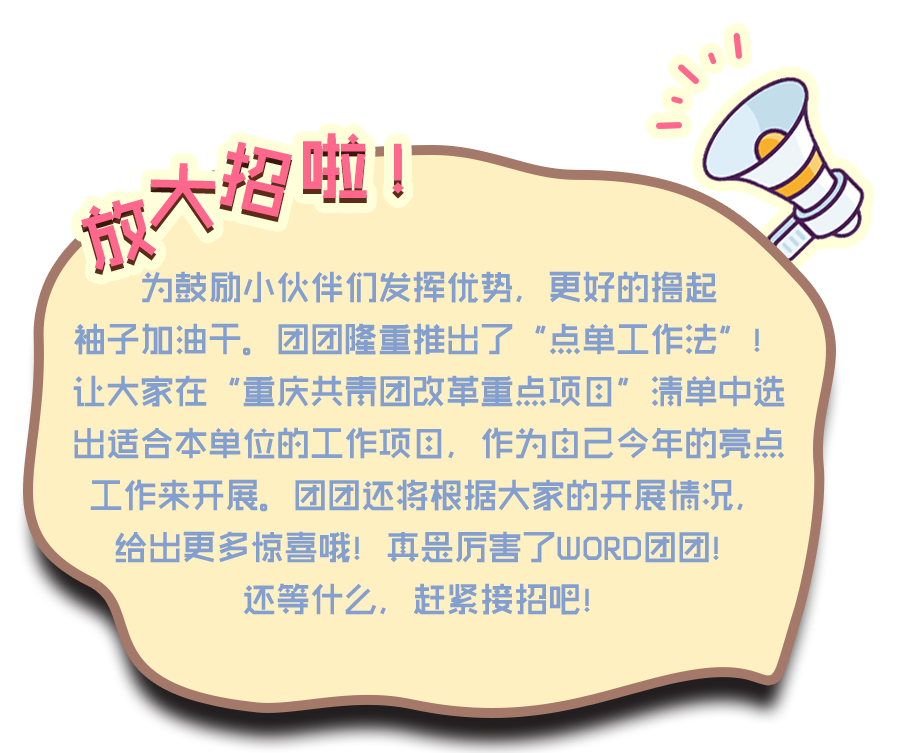
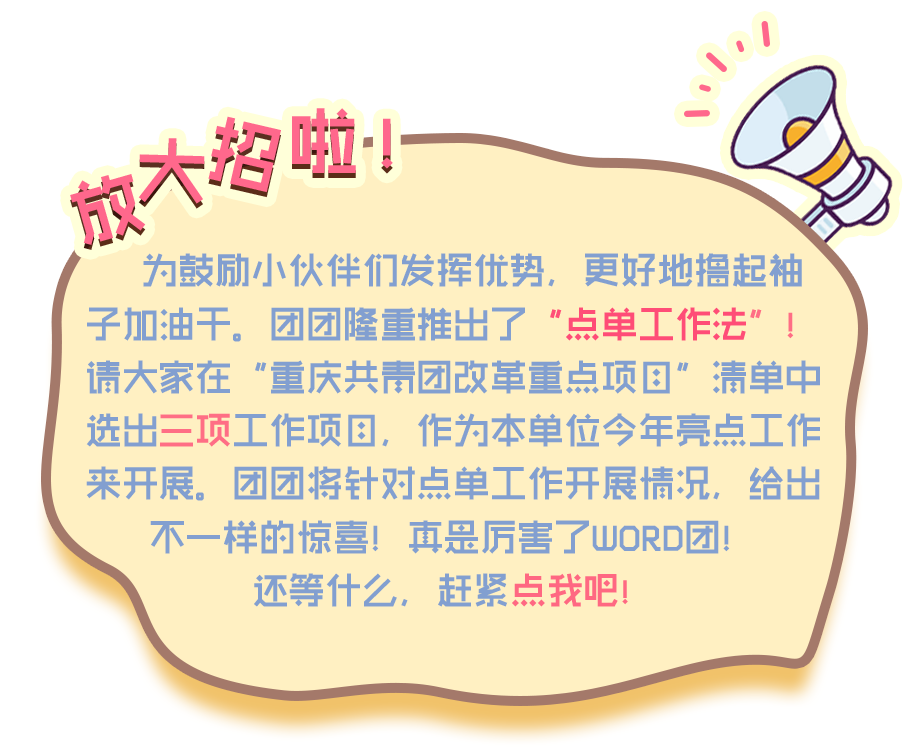
唉

diff --git a/Application/Home/View/Index/clickPage.html b/Application/Home/View/Index/clickPage.html
@@ -11,8 +11,8 @@
         <div id="mustBox">
             <img src="__PUBLIC__/img/mustKnow.png">
             <div id="mustDet">
-                <p>点单了，点单了！各单位的小伙伴，快来勾选出适合本单位的工作项目吧！当然，亲们可不要任性乱点单啊～克制住自己的双手，最多只能点三项哦！勾选出来的项目将作为自己今年的亮点工作，想想真有点小激动呢！</p>
-                <p>勾选完毕后，请下滑该页面到最底部点击“完成”按钮，并在下一页面完善信息后确认提交，即可完成点单。亲，准备好了吗？开始点单吧！</p>
+                <p>点单了，点单了！小伙伴们快来勾选出适合本单位的工作项目吧！当然，亲们可不要任选乱点单啊~克制住自己的双手，最多只能点三项哦！三项哦！三项哦！</p>
+                <p>勾选完毕后，请下滑页面到最底部点击“完成”按钮，并在下一页面完善信息后确认提交，即可完成点单。亲，准备好了吗？开始点单吧！</p>
             </div>
         </div>
         <div id="clickBox">

diff --git a/Public/css/clickPage.css b/Public/css/clickPage.css
@@ -2,7 +2,7 @@
 * @Author: 10261
 * @Date:   2017-02-18 22:22:47
 * @Last Modified by:   10261
-* @Last Modified time: 2017-02-20 21:42:11
+* @Last Modified time: 2017-02-21 13:12:30
 */
 html, body, div, img, span, p,input {
 	margin: 0;
@@ -16,7 +16,7 @@ input[type=checkbox] {
 }
 #mustBox {
 	width: 9.1rem;
-	height: 5.7rem;
+	height: 5rem;
 	position: relative;
 	margin-left: 0.45rem;
 	margin-top: 1.4rem;
@@ -39,7 +39,6 @@ input[type=checkbox] {
 	position: absolute;
 	left: 0.15rem;
 	top: 0.9rem;
-	font-weight: 700;
 }
 #mustDet p {
 	text-indent: 2em;

diff --git a/Public/css/index.css b/Public/css/index.css
@@ -2,7 +2,7 @@
 * @Author: 10261
 * @Date:   2017-02-18 13:09:05
 * @Last Modified by:   10261
-* @Last Modified time: 2017-02-21 02:38:44
+* @Last Modified time: 2017-02-21 13:02:59
 */
 html, body, div, img {
 	margin: 0;
@@ -79,7 +79,7 @@ a {
 	height: 1.9rem;
 	position: absolute;
 	bottom: -0.2rem;
-	right: 1.2rem;
+	right: 1rem;
 }
 .a {
 	width: 4.7rem;
